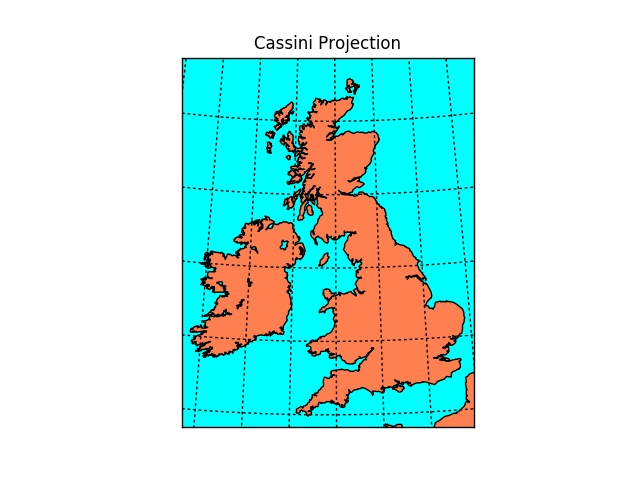
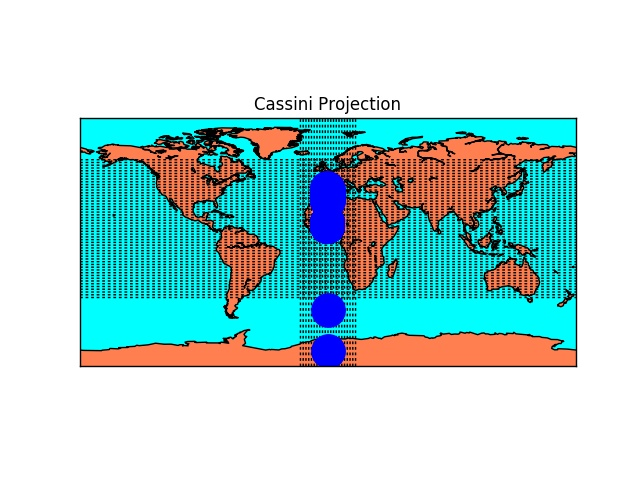
Full World map with some points

diff --git a/CreateMap.py b/CreateMap.py
@@ -4,22 +4,32 @@ import matplotlib
 matplotlib.use('Agg')
 import matplotlib.pyplot as plt
 
-# llcrnrlat,llcrnrlon,urcrnrlat,urcrnrlon
-# are the lat/lon values of the lower left and upper right corners
-# of the map.
-# resolution = 'i' means use intermediate resolution coastlines.
-# lon_0, lat_0 are the central longitude and latitude of the projection.
-m = Basemap(llcrnrlon=-10.5,llcrnrlat=49.5,urcrnrlon=3.5,urcrnrlat=59.5,
-            resolution='i',projection='cass',lon_0=-4.36,lat_0=54.7)
-# can get the identical map this way (by specifying width and
-# height instead of lat/lon corners)
-#m = Basemap(width=891185,height=1115557,\
+mydata = open("part-00000","r")
+mydata = mydata.readlines()
+
+print(len(mydata))
+
+#m = Basemap(llcrnrlon=-10.5,llcrnrlat=49.5,urcrnrlon=3.5,urcrnrlat=59.5,
 #            resolution='i',projection='cass',lon_0=-4.36,lat_0=54.7)
+
+m = Basemap()
+
 m.drawcoastlines()
 m.fillcontinents(color='coral',lake_color='aqua')
+
 # draw parallels and meridians.
 m.drawparallels(np.arange(-40,61.,2.))
 m.drawmeridians(np.arange(-20.,21.,2.))
 m.drawmapboundary(fill_color='aqua')
+
+for i in range(0,100):
+ data = mydata[i]
+ data = data.split("\t")
+ lon = data[0]
+ lat = data[1]
+ print(lon)
+ x,y = m(lon,lat)
+ m.plot(x,y,'bo',markersize=24)
+
 plt.title("Cassini Projection")
 plt.savefig("Mymap.jpg")
